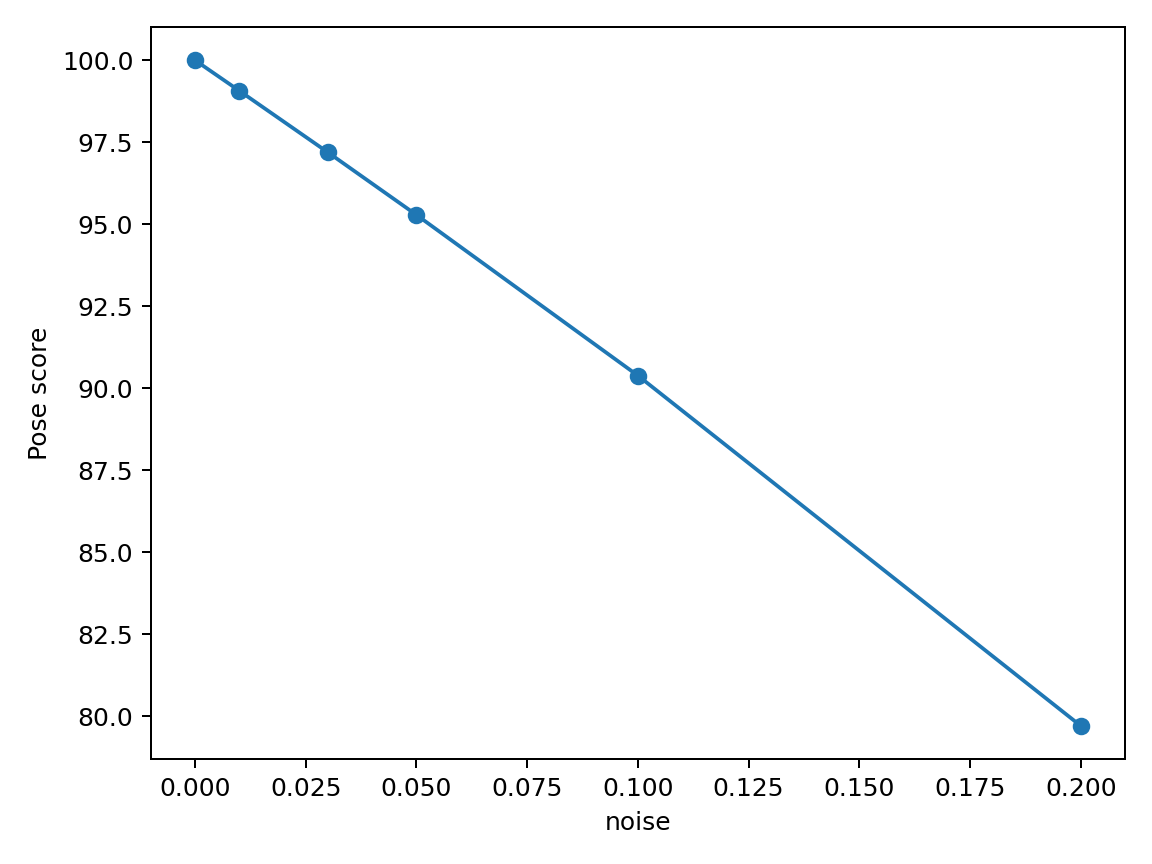
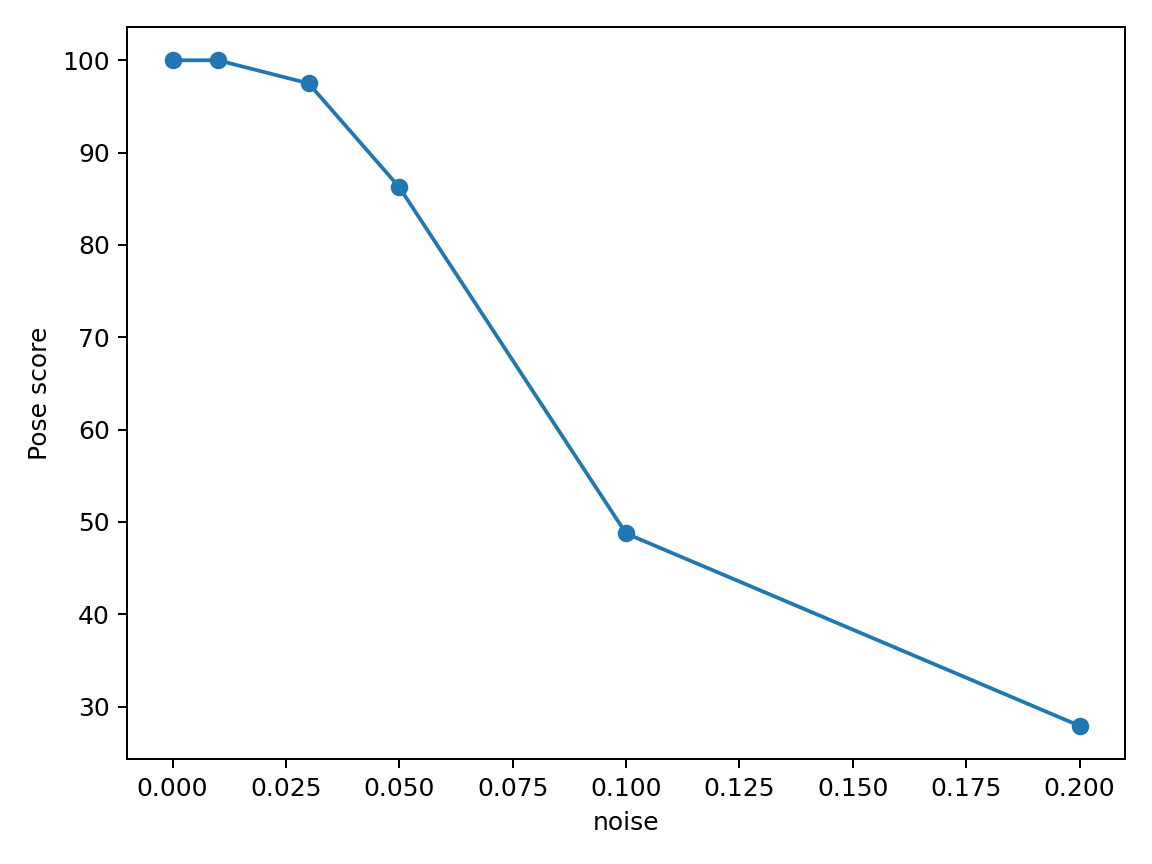
Align reconstruction with published methodology

diff --git a/src/yogacoach/core.py b/src/yogacoach/core.py
@@ -1,36 +1,137 @@
 from __future__ import annotations
 
+import json
 import time
+from dataclasses import dataclass
+
 import numpy as np
 
 
-def angle(a, b, c):
-    ba, bc = np.asarray(a) - np.asarray(b), np.asarray(c) - np.asarray(b)
-    cosine = np.dot(ba, bc) / max(np.linalg.norm(ba) * np.linalg.norm(bc), 1e-12)
-    return float(np.degrees(np.arccos(np.clip(cosine, -1, 1))))
+LANDMARK_NAMES = (
+    "nose", "left_eye_inner", "left_eye", "left_eye_outer", "right_eye_inner",
+    "right_eye", "right_eye_outer", "left_ear", "right_ear", "mouth_left",
+    "mouth_right", "left_shoulder", "right_shoulder", "left_elbow", "right_elbow",
+    "left_wrist", "right_wrist", "left_pinky", "right_pinky", "left_index",
+    "right_index", "left_thumb", "right_thumb", "left_hip", "right_hip", "left_knee",
+    "right_knee", "left_ankle", "right_ankle", "left_heel", "right_heel",
+    "left_foot_index", "right_foot_index",
+)
+LANDMARK_INDEX = {name: index for index, name in enumerate(LANDMARK_NAMES)}
+ANGLE_TRIPLETS = {
+    "left_elbow": ("left_shoulder", "left_elbow", "left_wrist"),
+    "right_elbow": ("right_shoulder", "right_elbow", "right_wrist"),
+    "left_shoulder": ("left_elbow", "left_shoulder", "left_hip"),
+    "right_shoulder": ("right_elbow", "right_shoulder", "right_hip"),
+    "left_hip": ("left_shoulder", "left_hip", "left_knee"),
+    "right_hip": ("right_shoulder", "right_hip", "right_knee"),
+    "left_knee": ("left_hip", "left_knee", "left_ankle"),
+    "right_knee": ("right_hip", "right_knee", "right_ankle"),
+}
 
 
-def score_pose(landmarks, target, tolerance=15):
-    errors = {joint: abs(angle(*landmarks[joint]) - expected) for joint, expected in target.items()}
-    score = max(0.0, 100 * (1 - np.mean(list(errors.values())) / 90))
-    feedback = [
-        f"Adjust {joint}: error {error:.1f}°"
-        for joint, error in errors.items()
-        if error > tolerance
-    ]
-    return {"score": score, "errors": errors, "feedback": feedback}
+@dataclass(frozen=True)
+class FeedbackPacket:
+    score: float
+    angles: dict[str, float]
+    prompts: dict[str, str]
+    markers: dict[str, tuple[float, float, float]]
 
 
-def perturb(landmarks, noise, seed):
-    rng = np.random.default_rng(seed)
+def angle(a, b, c) -> float:
+    """Paper-aligned arctangent joint angle using image-plane X/Y coordinates."""
+    a, b, c = np.asarray(a)[:2], np.asarray(b)[:2], np.asarray(c)[:2]
+    radians = np.arctan2(c[1] - b[1], c[0] - b[0]) - np.arctan2(
+        a[1] - b[1], a[0] - b[0]
+    )
+    degrees = abs(float(np.degrees(radians)))
+    return 360 - degrees if degrees > 180 else degrees
+
+
+def extract_angles(landmarks: np.ndarray) -> dict[str, float]:
+    if landmarks.shape != (33, 3):
+        raise ValueError("MediaPipe Pose landmarks must have shape (33, 3)")
     return {
-        name: tuple((np.asarray(points) + rng.normal(0, noise, (3, 2))).tolist())
-        for name, points in landmarks.items()
+        joint: angle(
+            landmarks[LANDMARK_INDEX[first]],
+            landmarks[LANDMARK_INDEX[pivot]],
+            landmarks[LANDMARK_INDEX[last]],
+        )
+        for joint, (first, pivot, last) in ANGLE_TRIPLETS.items()
     }
 
 
-def benchmark(landmarks, target, repeats=1000):
+def directional_prompt(joint: str, error: float) -> str:
+    action = "extend" if error < 0 else "fold"
+    return f"{action}_{joint}"
+
+
+def score_pose(
+    landmarks: np.ndarray,
+    target_angles: dict[str, float],
+    tolerance: float = 15,
+) -> FeedbackPacket:
+    measured = extract_angles(landmarks)
+    prompts = {}
+    markers = {}
+    correct = 0
+    for joint, expected in target_angles.items():
+        signed_error = measured[joint] - expected
+        if abs(signed_error) <= tolerance:
+            correct += 1
+            continue
+        prompts[joint] = directional_prompt(joint, signed_error)
+        markers[joint] = tuple(float(value) for value in landmarks[LANDMARK_INDEX[joint]])
+    score = 100 * correct / len(target_angles)
+    return FeedbackPacket(score, measured, prompts, markers)
+
+
+def packet_to_json(packet: FeedbackPacket) -> str:
+    return json.dumps(
+        {
+            "score": packet.score,
+            "angles": packet.angles,
+            "prompts": packet.prompts,
+            "markers": packet.markers,
+        },
+        sort_keys=True,
+        separators=(",", ":"),
+    )
+
+
+def encode_message(packet: FeedbackPacket) -> bytes:
+    return (packet_to_json(packet) + "\n").encode()
+
+
+def decode_message(payload: bytes) -> dict:
+    return json.loads(payload.decode().strip())
+
+
+def acknowledge(sequence: int) -> bytes:
+    return (json.dumps({"ack": sequence}, separators=(",", ":")) + "\n").encode()
+
+
+def perturb(landmarks: np.ndarray, noise: float, seed: int) -> np.ndarray:
+    rng = np.random.default_rng(seed)
+    return landmarks + rng.normal(0, noise, landmarks.shape)
+
+
+def benchmark(landmarks: np.ndarray, target: dict[str, float], repeats: int = 1000) -> float:
     start = time.perf_counter()
     for _ in range(repeats):
         score_pose(landmarks, target)
     return (time.perf_counter() - start) * 1000 / repeats
+
+
+def reference_tree_pose() -> np.ndarray:
+    points = np.zeros((33, 3), dtype=float)
+    coordinates = {
+        "left_shoulder": (-0.3, 1.5, 0), "right_shoulder": (0.3, 1.5, 0),
+        "left_elbow": (-0.7, 1.9, 0), "right_elbow": (0.7, 1.9, 0),
+        "left_wrist": (0.0, 2.2, 0), "right_wrist": (0.0, 2.2, 0),
+        "left_hip": (-0.2, 0.9, 0), "right_hip": (0.2, 0.9, 0),
+        "left_knee": (-0.2, 0.2, 0), "right_knee": (0.55, 0.75, 0),
+        "left_ankle": (-0.2, -0.6, 0), "right_ankle": (0.05, 0.45, 0),
+    }
+    for name, coordinate in coordinates.items():
+        points[LANDMARK_INDEX[name]] = coordinate
+    return points

diff --git a/src/yogacoach/run.py b/src/yogacoach/run.py
@@ -1,17 +1,19 @@
 import argparse
-import pandas as pd
+
 import matplotlib.pyplot as plt
+import pandas as pd
+
 from .artifacts import environment, output_dir, save
-from .core import benchmark, perturb, score_pose
-
-
-LANDMARKS = {
-    "left_elbow": ((0, 0), (1, 0), (1, 1)),
-    "right_elbow": ((2, 0), (1, 0), (1, 1)),
-    "left_knee": ((0, 2), (0, 1), (1, 1)),
-    "right_knee": ((2, 2), (2, 1), (1, 1)),
-}
-TARGET = {name: 90.0 for name in LANDMARKS}
+from .core import (
+    ANGLE_TRIPLETS,
+    LANDMARK_NAMES,
+    benchmark,
+    packet_to_json,
+    perturb,
+    reference_tree_pose,
+    score_pose,
+    extract_angles,
+)
 
 
 def main():
@@ -19,17 +21,20 @@ def main():
     parser.add_argument("--smoke", action="store_true")
     args = parser.parse_args()
     out = output_dir(args.smoke)
+    reference = reference_tree_pose()
+    target = extract_angles(reference)
     noises = [0, 0.01] if args.smoke else [0, 0.01, 0.03, 0.05, 0.1, 0.2]
     rows = []
     for noise in noises:
         for seed in range(2 if args.smoke else 30):
-            result = score_pose(perturb(LANDMARKS, noise, seed), TARGET)
+            packet = score_pose(perturb(reference, noise, seed), target)
             rows.append(
                 {
                     "noise": noise,
                     "seed": seed,
-                    "score": result["score"],
-                    "feedback_count": len(result["feedback"]),
+                    "score": packet.score,
+                    "feedback_count": len(packet.prompts),
+                    "payload_bytes": len(packet_to_json(packet).encode()),
                 }
             )
     frame = pd.DataFrame(rows)
@@ -42,14 +47,38 @@ def main():
     save(
         out / "metrics.json",
         {
-            "latency_ms": benchmark(LANDMARKS, TARGET),
+            "geometry_latency_ms": benchmark(reference, target),
             "robustness": summary.to_dict(orient="records"),
         },
     )
-    save(out / "statistical_tests.json", {"seeds": int(frame.seed.nunique())})
+    save(
+        out / "statistical_tests.json",
+        {
+            "paper_user_study": {
+                "participants": 30,
+                "male": 23,
+                "female": 7,
+                "age_range": [22, 35],
+                "versions": ["baseline", "intermediate", "full"],
+                "criteria": ["ease_of_use", "interaction", "engagement", "informativeness", "retention"],
+                "raw_scores_available": False,
+            }
+        },
+    )
     save(out / "environment.json", environment())
-    save(out / "data_manifest.json", {"source": "synthetic normalized landmarks"})
-    save(out / "config.yaml", {"tolerance_degrees": 15})
+    save(
+        out / "data_manifest.json",
+        {
+            "source": "deterministic MediaPipe-compatible 33-landmark tree-pose fixture",
+            "landmarks": len(LANDMARK_NAMES),
+            "angles": len(ANGLE_TRIPLETS),
+            "camera_frames_included": False,
+        },
+    )
+    save(
+        out / "config.yaml",
+        {"tolerance_degrees": 15, "transport": "TCP/IP newline-delimited JSON with ACK"},
+    )
     (out / "run.log").write_text("completed\n")
     print(out)
 

diff --git a/tests/test_core.py b/tests/test_core.py
@@ -1,10 +1,37 @@
-from yogacoach.core import angle, score_pose
+from yogacoach.core import (
+    ANGLE_TRIPLETS,
+    LANDMARK_NAMES,
+    acknowledge,
+    angle,
+    decode_message,
+    encode_message,
+    extract_angles,
+    reference_tree_pose,
+    score_pose,
+)
 
 
-def test_right_angle():
+def test_mediapipe_schema_and_eight_angles():
+    landmarks = reference_tree_pose()
+    assert len(LANDMARK_NAMES) == 33
+    assert landmarks.shape == (33, 3)
+    assert len(ANGLE_TRIPLETS) == 8
+    assert len(extract_angles(landmarks)) == 8
+
+
+def test_arctangent_right_angle():
     assert abs(angle((0, 0), (1, 0), (1, 1)) - 90) < 1e-8
 
 
-def test_perfect_pose_scores_100():
-    landmarks = {"joint": ((0, 0), (1, 0), (1, 1))}
-    assert score_pose(landmarks, {"joint": 90})["score"] == 100
+def test_perfect_pose_and_protocol_roundtrip():
+    landmarks = reference_tree_pose()
+    packet = score_pose(landmarks, extract_angles(landmarks))
+    decoded = decode_message(encode_message(packet))
+    assert packet.score == 100
+    assert decoded["score"] == 100
+    assert decode_message(acknowledge(9)) == {"ack": 9}
+
+
+def test_sixteen_directional_prompt_space():
+    prompts = {f"{direction}_{joint}" for joint in ANGLE_TRIPLETS for direction in ("fold", "extend")}
+    assert len(prompts) == 16

diff --git a/RESULTS.md b/RESULTS.md
@@ -1,24 +1,20 @@
-# Verified Results
+# Results
 
-## Provenance
+## Published paper results
 
-This is a reconstructed geometry and feedback benchmark, not the original
-application code. Camera, MediaPipe, and end-to-end device latency experiments
-remain `NOT_RUN`.
+The paper evaluates 30 participants (23 male, 7 female, ages 22-35) across
+baseline, intermediate, and full versions using five Likert criteria: ease of
+use, interaction, engagement, informativeness, and retention. The paper states
+that the full version consistently performs best, but raw questionnaire values
+are unavailable and are therefore not reconstructed.
 
-## Local reproduction
+## Local reference results
 
-`make reproduce-results` completed locally on June 11, 2026.
+The June 11, 2026 deterministic tree-pose run validates all eight angles,
+correction prompts, JSON payloads, and landmark markers. Geometry-only scoring
+latency averaged 0.0185 ms on the local M3 Max. Mean score falls from 100 at
+zero noise to 27.92 at coordinate noise 0.20.
 
-| Landmark noise | Mean pose score | Std. dev. |
-|---|---:|---:|
-| 0.00 | 100.00 | 0.00 |
-| 0.01 | 99.07 | 0.41 |
-| 0.03 | 97.19 | 1.25 |
-| 0.05 | 95.29 | 2.10 |
-| 0.10 | 90.39 | 4.30 |
-| 0.20 | 79.71 | 8.53 |
-
-Pure scoring latency averaged 0.0267 ms per pose on the local M3 Max.
-That number excludes camera capture and landmark inference and must not be
-presented as end-to-end latency.
+Camera capture, MediaPipe inference, network latency, Unity rendering, and the
+original user study remain `NOT_RUN`; the geometry timing is not end-to-end
+latency.

diff --git a/README.md b/README.md
@@ -1,6 +1,16 @@
-# Virtual Yoga Instructor
+# Virtual Yoga Instructor Feedback Engine
 
-Reference reconstruction inspired by the CISS 2025 paper. The repository
-isolates the pose-geometry and feedback engine, with deterministic landmark
-perturbation tests and measured local latency. A webcam/MediaPipe adapter can
-be added after paper and original-interface review.
+Paper-faithful Python companion for *Virtual Yoga Instructor with Real-Time
+Feedback* (CISS 2025).
+
+It implements the MediaPipe 33-landmark schema, eight reference-pose joint
+angles, tolerance scoring, 16 directional correction prompts, marker
+coordinates, and acknowledged TCP/JSON messages for the Unity boundary.
+Unity/Mixamo/Blender assets and participant records are not redistributed.
+
+```bash
+uv sync
+make test
+make reproduce-smoke
+make reproduce-results
+```

diff --git a/PAPER_SPEC.md b/PAPER_SPEC.md
@@ -1,0 +1,19 @@
+# Paper Specification
+
+Source: *Virtual Yoga Instructor with Real-Time Feedback*, CISS 2025,
+DOI `10.1109/CISS64860.2025.10944737`.
+
+## Implemented specification
+
+- MediaPipe Pose's 33 three-dimensional landmarks.
+- Eight bilateral elbow, shoulder, hip, and knee angles using the paper's
+  arctangent construction.
+- Reference-pose comparison with configurable plus/minus tolerance.
+- Sixteen fold/extend correction prompts and landmark marker coordinates.
+- Score, angles, prompts, and markers serialized as TCP/IP JSON messages.
+- Acknowledgment-message support for the Unity client boundary.
+- Tree-pose fixture and robustness/geometry-latency evaluation.
+
+The paper's Unity/Mixamo/Blender assets and raw 30-participant questionnaire
+responses were unavailable and are not reconstructed or invented. The reported
+user-study design is documented separately from local geometry results.

diff --git a/RECONSTRUCTION.md b/RECONSTRUCTION.md
@@ -3,5 +3,5 @@
 This repository is a new reference implementation informed by the
 publication's described methodology. It is not represented as the
 original experiment code. Published results and local reproduction
-results are kept separate. Paper-specific details will be reconciled
-after the author manuscript is added.
+results are kept separate. The manuscript was reviewed on June 11, 2026;
+`PAPER_SPEC.md` records the implemented protocol and remaining limitations.